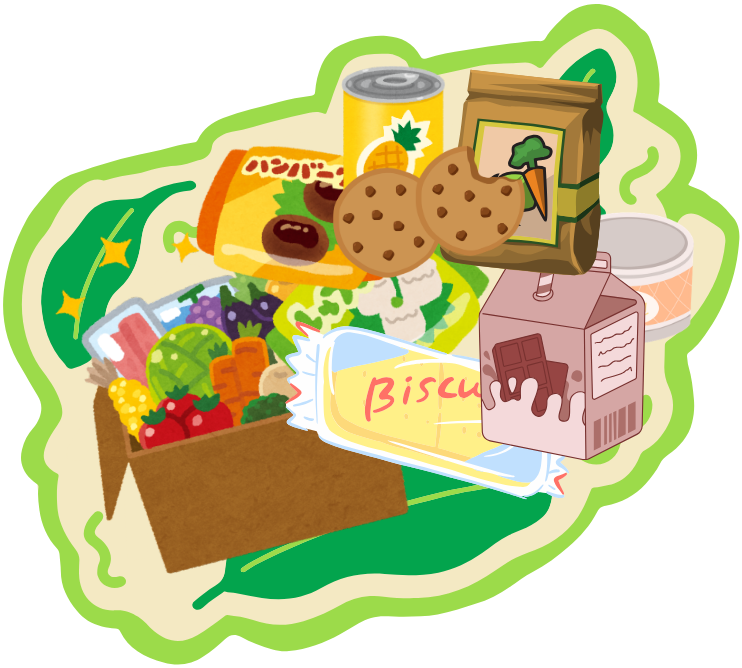
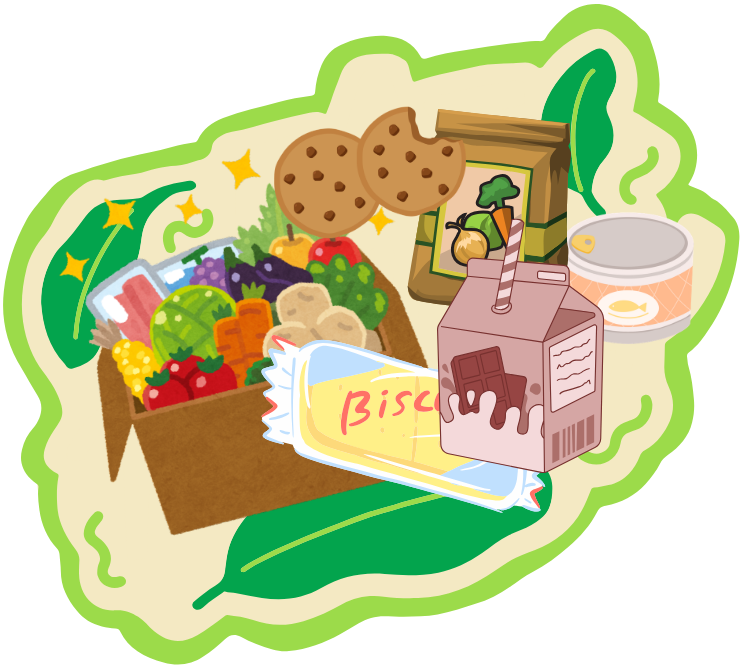
feat: uygun sonucunun yanına yıldız görseli eklendi

diff --git a/apps/mobile/lib/features/product_detail/widgets/warning_banner.dart b/apps/mobile/lib/features/product_detail/widgets/warning_banner.dart
@@ -17,11 +17,16 @@ class WarningBanner extends StatelessWidget {
   /// explanation when the caller has none.
   final List<ReasonSpan>? reason;
 
+  /// Sits next to the verdict when the product is suitable.
+  static const String _starIcon = 'assets/other/star.png';
+
   /// The illustration spans the title and the reason standing next to it.
   static const double _iconSize = 130;
 
   /// How far the illustration reaches past the text's left edge.
   static const double _iconInset = 12;
+
+  bool get _isSuitable => explanation.level == WarningLevel.ok;
 
   List<ReasonSpan> get _reason {
     final personal = reason;
@@ -67,14 +72,29 @@ class WarningBanner extends StatelessWidget {
             child: Column(
               crossAxisAlignment: CrossAxisAlignment.start,
               children: [
-                Text(
-                  style.title,
-                  style: TextStyle(
-                    color: style.main,
-                    fontSize: 30,
-                    fontWeight: FontWeight.bold,
-                    letterSpacing: -0.5,
-                  ),
+                Row(
+                  children: [
+                    Flexible(
+                      child: Text(
+                        style.title,
+                        style: TextStyle(
+                          color: style.main,
+                          fontSize: 30,
+                          fontWeight: FontWeight.bold,
+                          letterSpacing: -0.5,
+                        ),
+                      ),
+                    ),
+                    if (_isSuitable) ...[
+                      const SizedBox(width: 6),
+                      Image.asset(
+                        _starIcon,
+                        width: 26,
+                        height: 26,
+                        errorBuilder: (_, __, ___) => const SizedBox.shrink(),
+                      ),
+                    ],
+                  ],
                 ),
                 const SizedBox(height: 6),
                 Text.rich(

diff --git a/apps/mobile/lib/core/theme/warning_level_style.dart b/apps/mobile/lib/core/theme/warning_level_style.dart
@@ -50,7 +50,7 @@ class WarningLevelStyle {
     background: Color(0xFFF0FDF4),
     border: Color(0xFF86EFAC),
     icon: Icons.verified_user_rounded,
-    title: 'Uygun!',
+    title: 'Uygun',
     asset: 'assets/other/suitable.png',
   );
 
